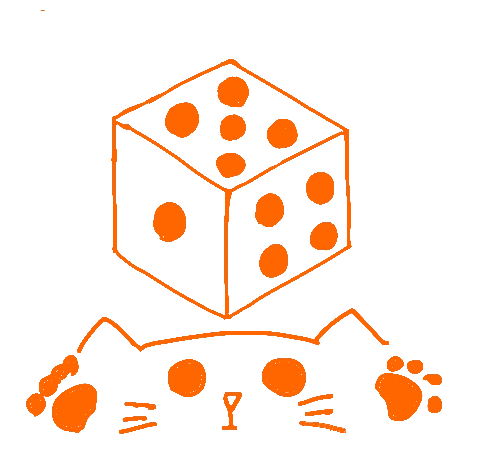
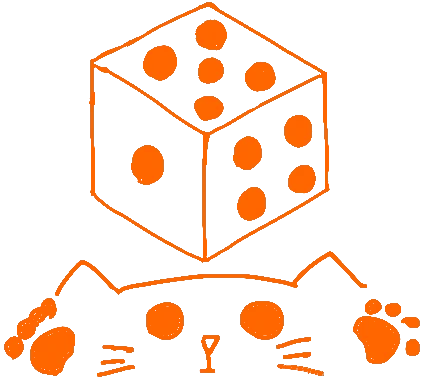
Complete Header and Hero

diff --git a/src/components/Hero.tsx b/src/components/Hero.tsx
@@ -1,0 +1,52 @@
+import React from 'react';
+import citelogo from '../assets/Hanz-on.webp';
+
+// 1. 装飾用パーツ（Appの外に置くことで、Appがスッキリする）
+const DecorativeArc = ({ position }: { position: 'left' | 'right' }) => {
+  const isLeft = position === 'left';
+  return (
+    <div className={`
+      absolute top-1/2 -translate-y-1/2 
+      h-[80%] aspect-[1/2] 
+      bg-[#F7931A]/10 -z-0
+      ${isLeft ? 'left-0 rounded-r-full' : 'right-0 rounded-l-full'}
+    `} />
+  );
+};
+
+const Hero = () => {
+    // 共通のスタイルを定義（修正が一箇所で済む）
+  const heroTitleStyle = "text-[8vw] font-black leading-tight drop-shadow-[0_0_15px_rgba(255,140,0,0.3)]";
+  const subTitleStyle = "text-[2vw] font-bold text-[#444444] mt-2";
+
+  return (
+    <section className="relative top-[5vh] flex items-center justify-center w-full aspect-[16/9] overflow-hidden px-[10vw]">
+    {/* ヒーローセクション */}
+      {/* 背景装飾 */}
+      <DecorativeArc position="left" />
+      <DecorativeArc position="right" />
+
+      {/* コンテンツエリア */}
+      <div className="flex items-center justify-between w-full z-10">
+        {/* 左側：テキスト情報 */}
+        <div className="flex-1">
+          <h1 className={heroTitleStyle}>
+            Hanz <span className='text-[#FF8C00]'>ON</span>
+          </h1>
+          <p className={subTitleStyle}>
+            SAGEポートフォリオサイト
+          </p>
+        </div>
+
+        {/* 右側：メインロゴ画像 */}
+        <div className="flex-1 flex justify-end">
+          <div className="w-full aspect-square">
+            <img src={citelogo} alt="Cite Logo" className="w-full h-full object-contain" />
+          </div>
+        </div>
+      </div>
+    </section>
+  );
+};
+
+export default Hero;

diff --git a/src/components/navbar.tsx b/src/components/navbar.tsx
@@ -1,0 +1,36 @@
+import React from 'react';
+
+const Navbar = () => {
+  const menuItems = [
+    { name: 'Home', href: '#' },
+    { name: 'Works', href: '#' },
+    { name: 'Blog', href: '#' },
+    { name: 'About', href: '#' },
+    { name: 'Contact', href: '#' }
+  ];
+
+  return (
+    <nav>
+      <ul className="flex items-center space-x-10">
+        {menuItems.map((item) => (
+          <li key={item.name}>
+            <a 
+              href={item.href} 
+              className="
+                relative py-2 text-sm font-bold text-gray-500 transition-all duration-300
+                hover:text-[#F7931A] 
+                /* 下線のエフェクトを追加 */
+                after:content-[''] after:absolute after:bottom-0 after:left-0 after:w-0 after:h-0.5 
+                after:bg-[#F7931A] after:transition-all after:duration-300 hover:after:w-full
+              "
+            >
+              {item.name}
+            </a>
+          </li>
+        ))}
+      </ul>
+    </nav>
+  );
+};
+
+export default Navbar;

diff --git a/src/components/Header .tsx b/src/components/Header .tsx
@@ -1,0 +1,30 @@
+import React from 'react';
+import Navbar from './navbar';
+// 1. ここで直接インポート
+import logoImg from '../assets/Hanz-on_50.webp'; 
+
+// 2. 引数（Props）をオブジェクトとして受け取り、型を指定する
+const BrandLogo = ({ src }: { src: string }) => (
+  <div className="flex items-center h-full group cursor-pointer">
+    <img 
+      src={src} // 3. 変数は { } で囲む
+      alt="Hanz ON Logo" 
+      className="h-12 w-auto object-contain transition-transform duration-300 group-hover:scale-110" 
+    />
+    <p className="ml-4 text-4xl font-black tracking-tighter">
+      Hanz <span className="text-[#FF8C00] drop-shadow-[0_0_8px_rgba(255,140,0,0.3)]">ON</span>
+    </p>
+  </div>
+);
+
+const Header = () => {
+  return (
+    <header className="fixed top-0 left-0 z-50 w-full h-20 bg-white/80 backdrop-blur-md shadow-sm border-b border-gray-100 px-12 flex items-center justify-between">
+      {/* 4. インポートした画像をここで渡す */}
+      <BrandLogo src={logoImg} />
+      <Navbar />
+    </header>
+  );
+};
+
+export default Header;

diff --git a/src/App.tsx b/src/App.tsx
@@ -1,27 +1,16 @@
 import React from 'react';
-import citelogo_50 from './assets/Hanz-on_50.webp';
-import TailwindTest from './components/tailwindtest.tsx';
+import Header from './components/Header ';
+import Hero from './components/Hero';
 
 function App() {
-  return(
-    //Tailwindが動いてるのか確認するコンポーネント。がちで動いてるなら、これが綺麗に並んで色が付いているはず。
-    //<TailwindTest />
-
-    <header className="flex items-center p-4 w-full h-16 drop-shadow-lg bg-white"> {/* 背景色がないと影が見えないので追加 */}
-      {/* Header content */}
-      <div className="absolute left-4 flex items-center h-full"> {/* flexで画像と文字を横並びに */}
-        {/* ロゴのサイズを親(h-16)から溢れないように制御 */}
-        <img src={citelogo_50} alt="Cite Logo" className="h-12 w-auto object-contain" />
-
-        {/* p-10だと余白がデカすぎて文字が画面外に飛ばされる可能性があるので調整 */}
-        <p className="ml-4 text-4xl font-Inter font-black">Hanz ON</p>
-      </div>
-    </header>
-
-    
+  return (
+    <>
+      <Header/>
+      <main>
+        <Hero/>
+      </main>
+    </>
   );
-
-  
 }
 
 export default App;